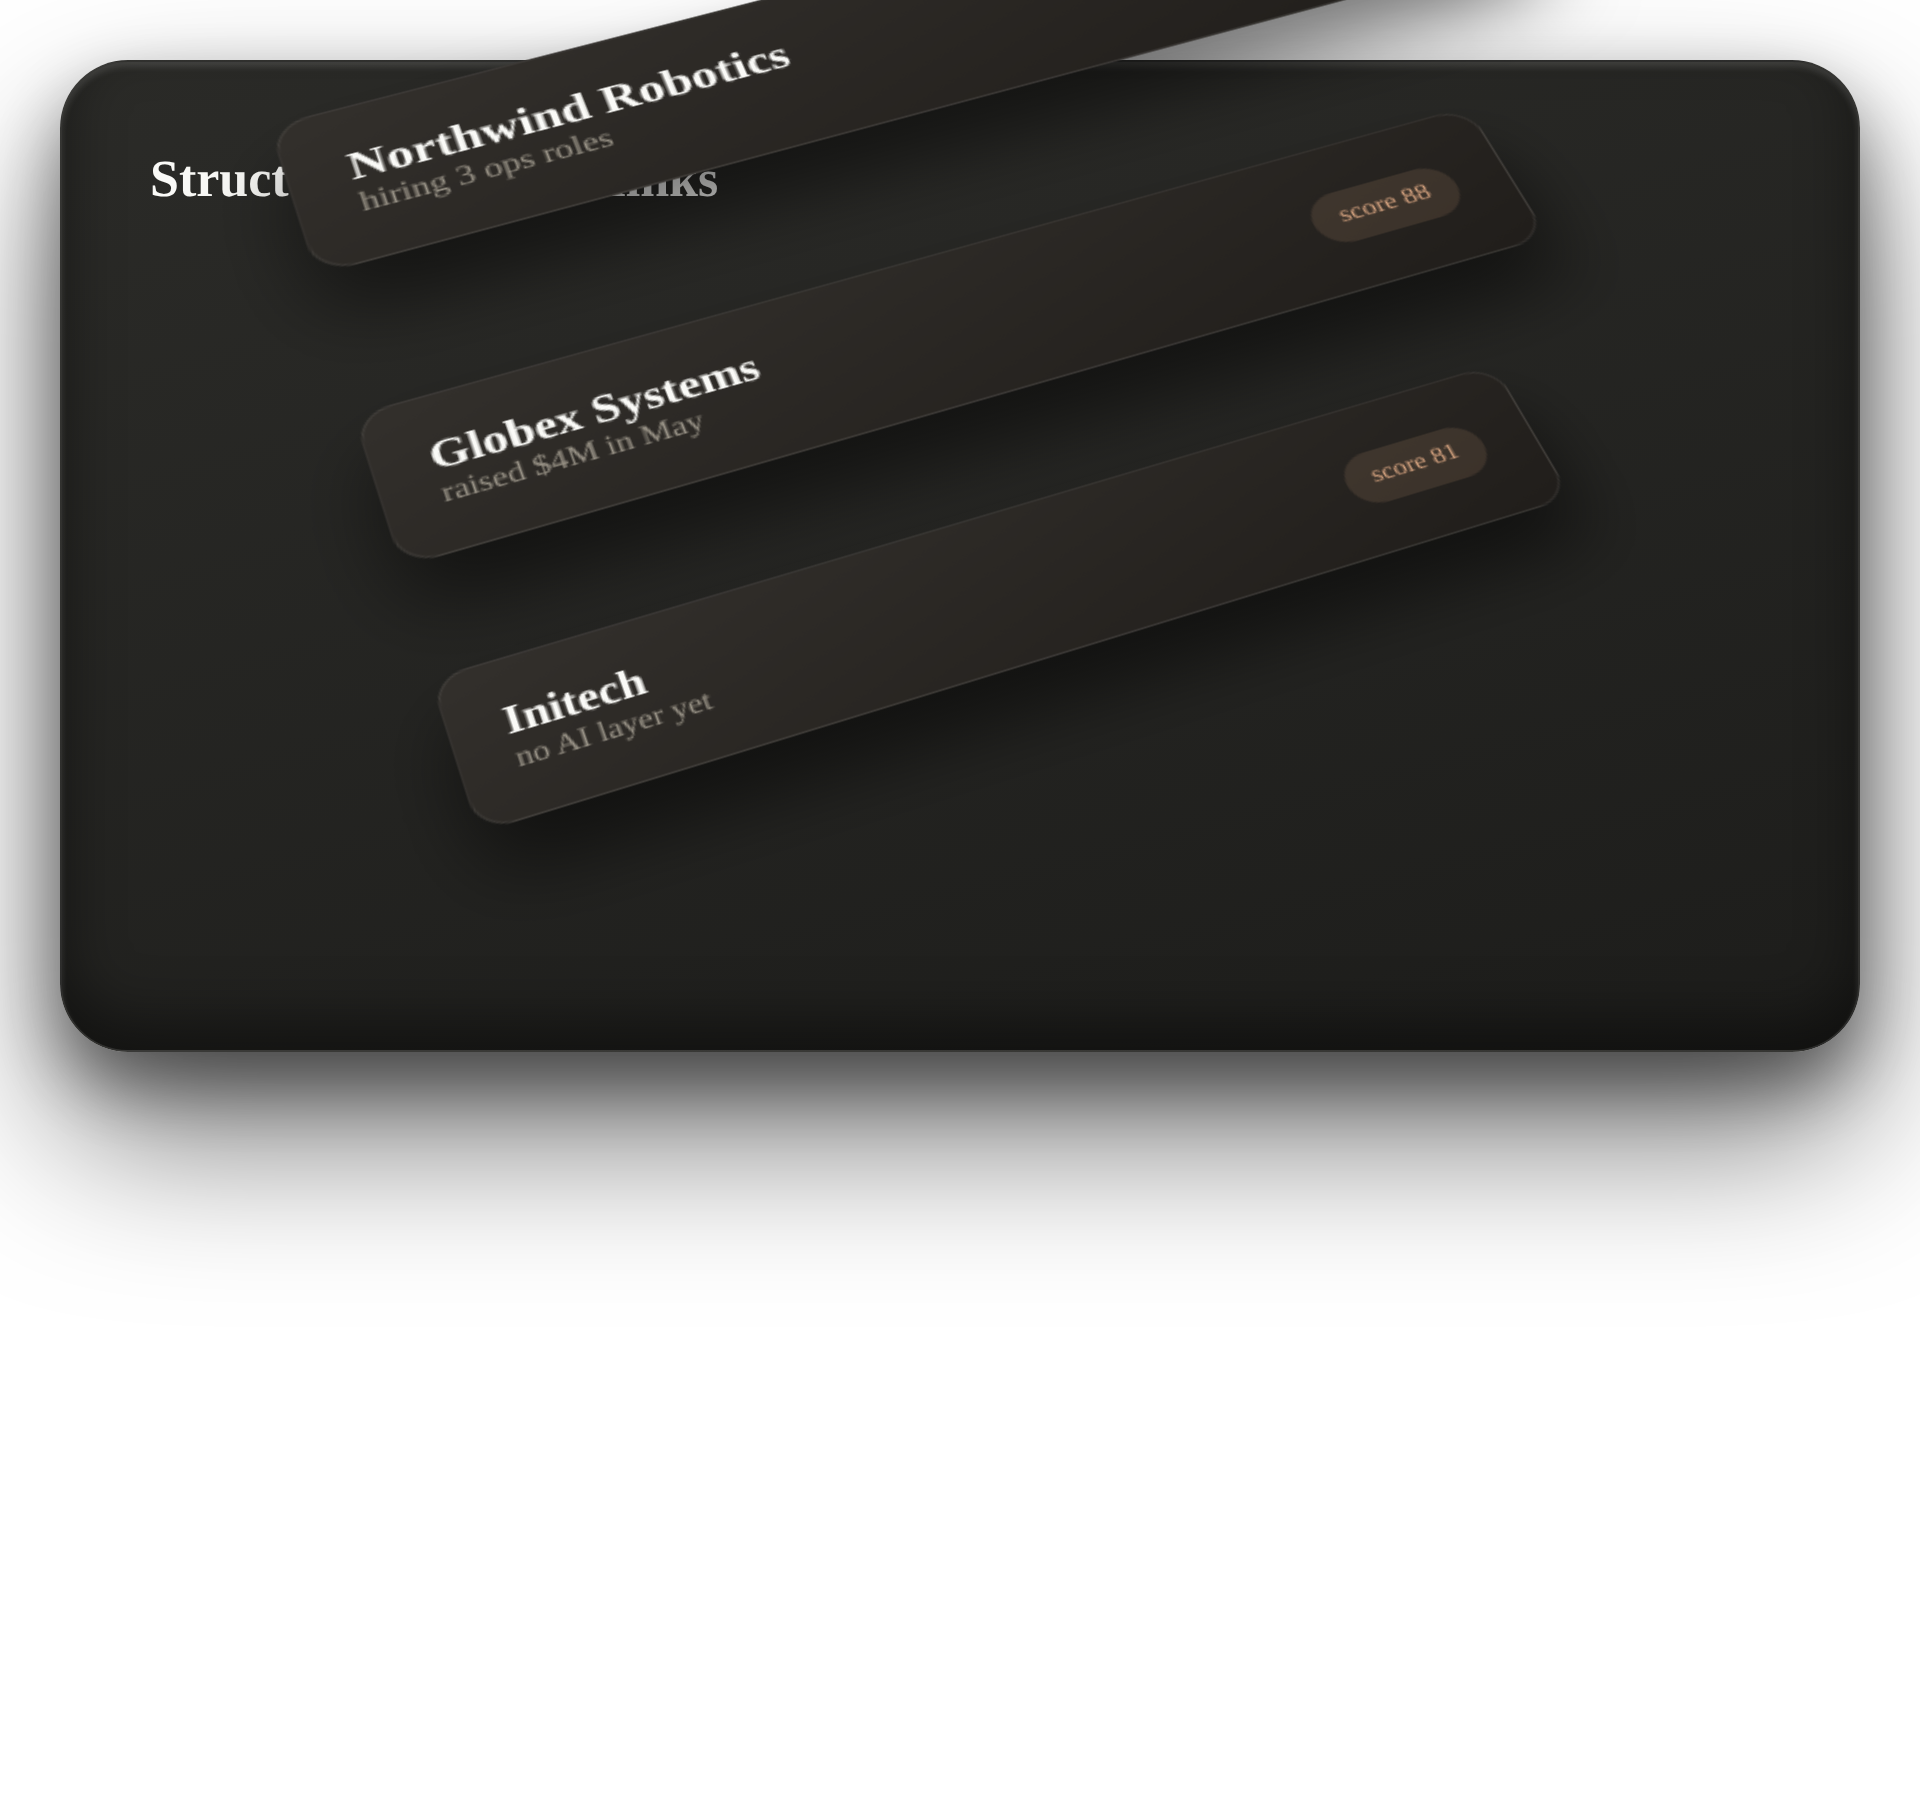
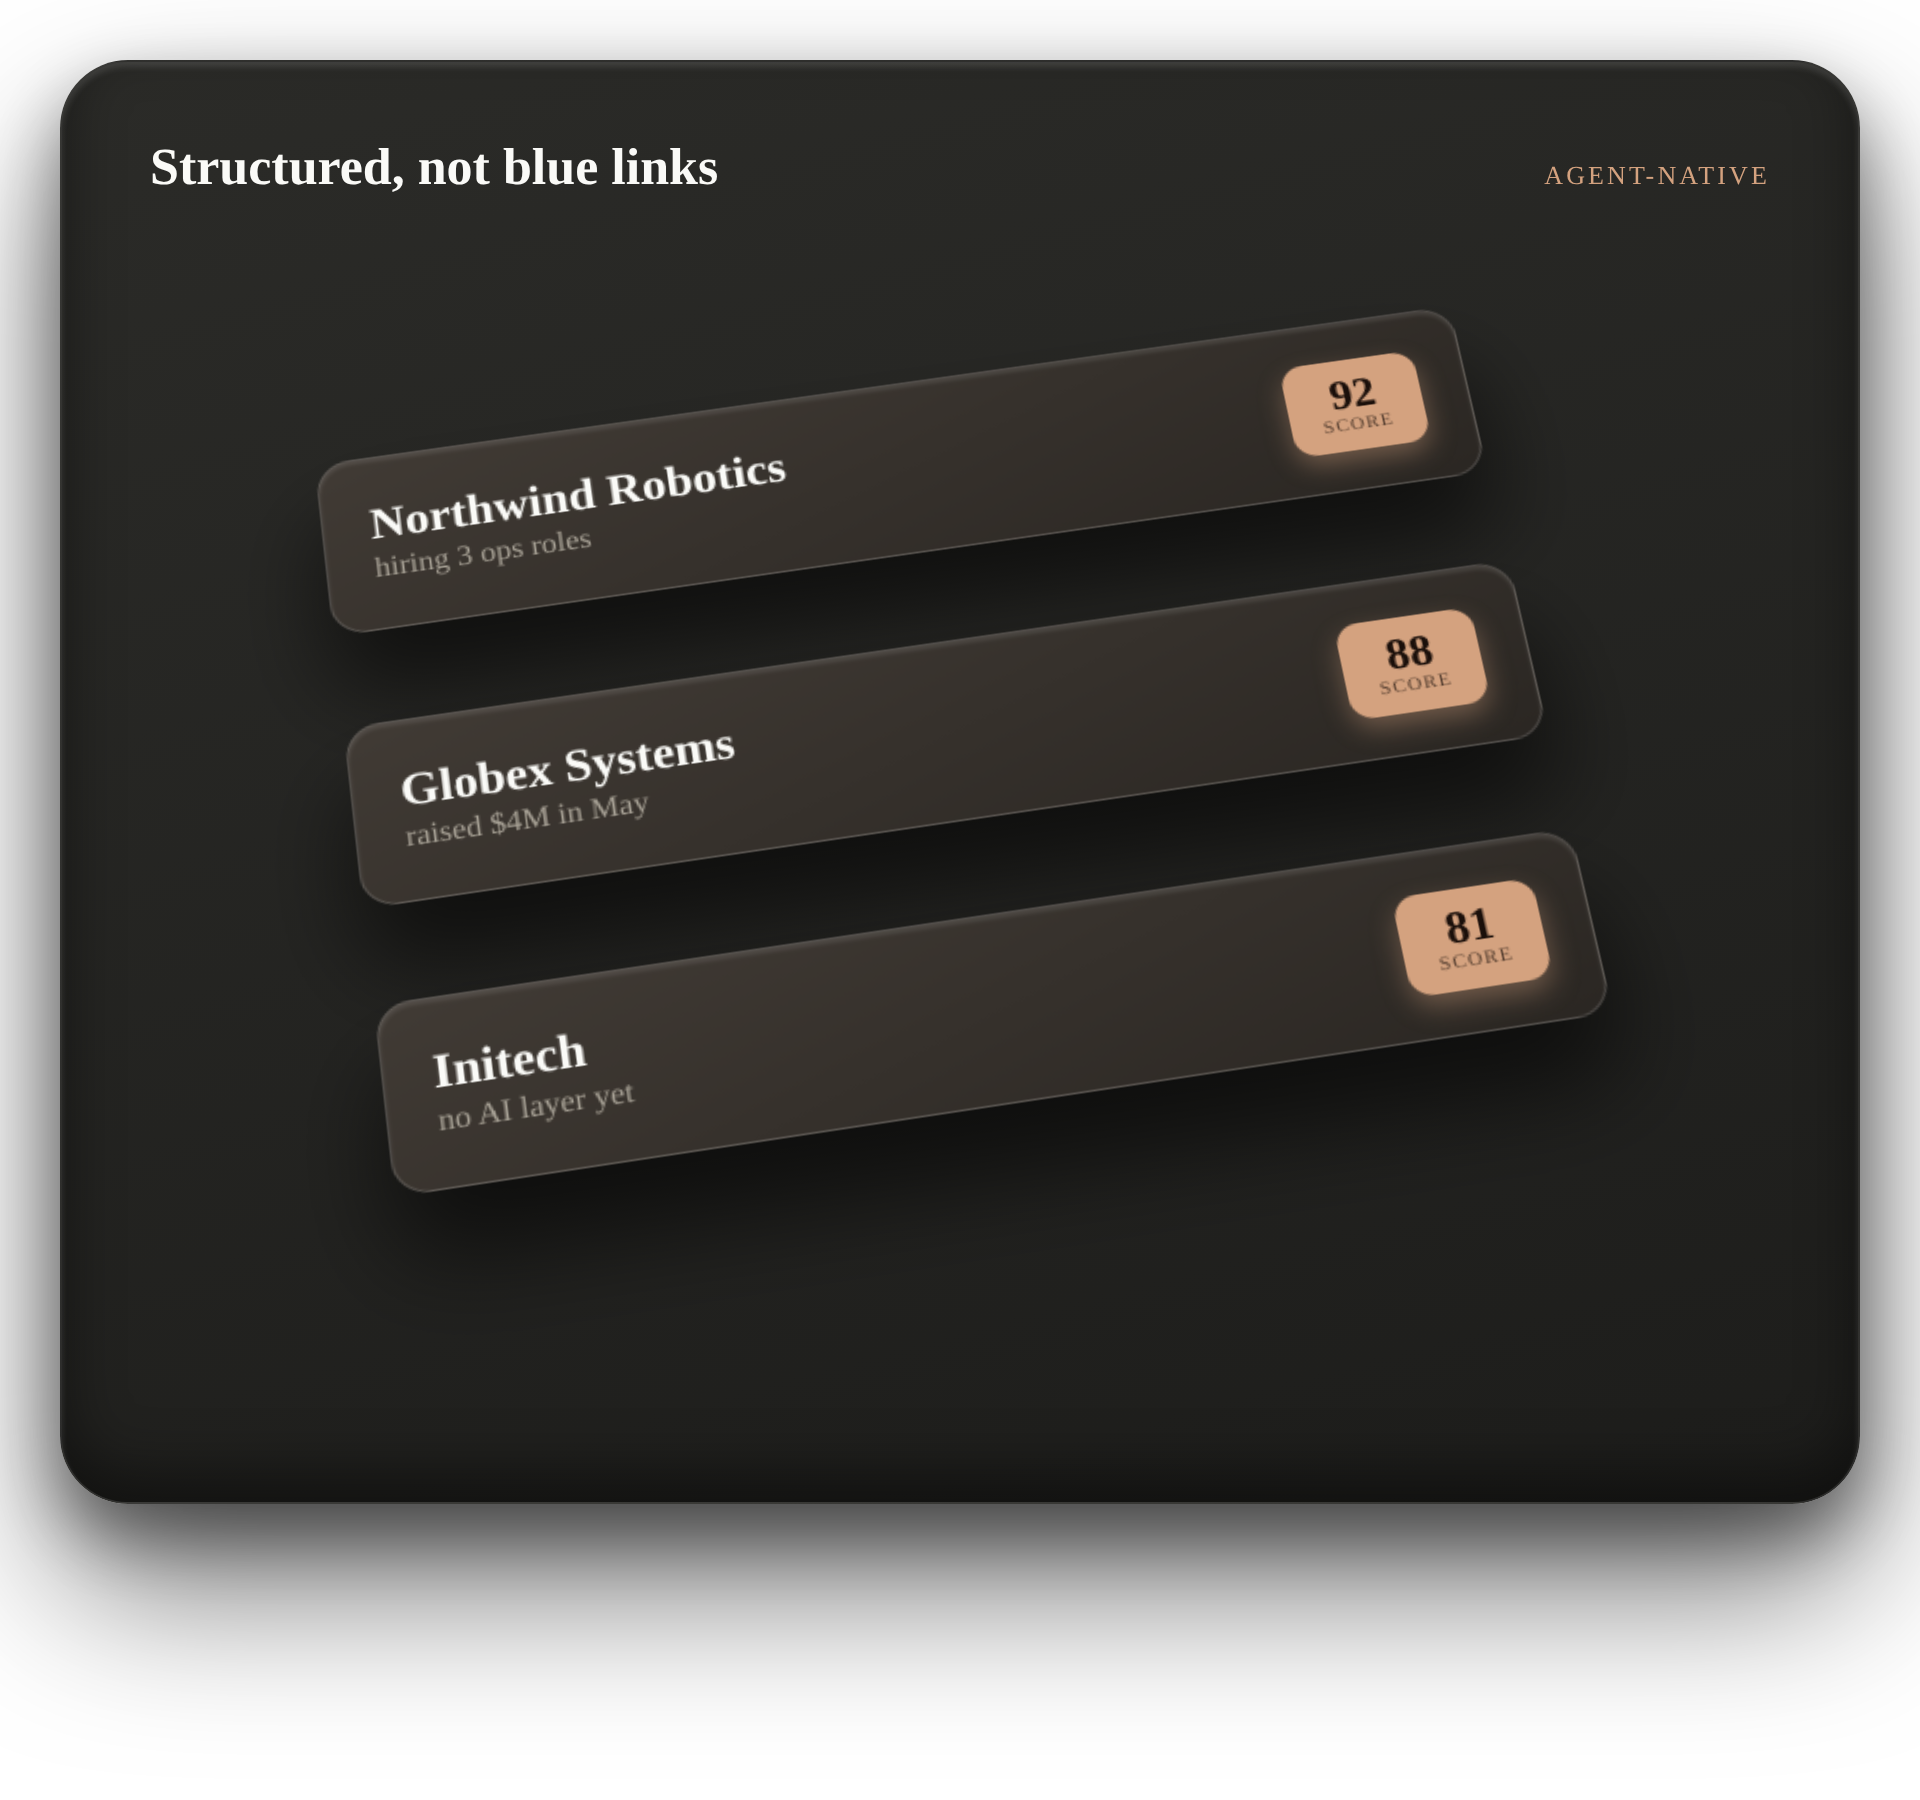
Fix slide 03 eyes (izometric): placi vizibile, scor asociat clar cu randul, tilt bland - bug de pozitionare rezolvat

diff --git a/content/_hitl-src/eyes_t3.py b/content/_hitl-src/eyes_t3.py
@@ -34,22 +34,28 @@ def jar():
     </div>'''
 
 # 2. EYES10 - isometric stack of structured result cards (agent-native search)
+# FIX (operator): titlul nu mai sta in spatele stivei; scena 3D e contuinuta, fara overflow/overlap.
 def eyes10():
     cards=""
-    rows=[("Northwind Robotics","hiring 3 ops roles","score 92"),
-          ("Globex Systems","raised $4M in May","score 88"),
-          ("Initech","no AI layer yet","score 81")]
+    rows=[("Northwind Robotics","hiring 3 ops roles","92"),
+          ("Globex Systems","raised $4M in May","88"),
+          ("Initech","no AI layer yet","81")]
     for i,(a,b,c) in enumerate(rows):
-        z=(2-i)*120
-        cards+=f'''<div style="position:absolute;left:0;top:{i*70}px;width:560px;transform:translateZ({z}px);
-          background:linear-gradient(160deg,#33302c,#211e1b);border:1px solid rgba(255,255,255,.08);border-radius:18px;padding:22px 26px;
-          box-shadow:0 26px 40px rgba(0,0,0,.5);display:flex;align-items:center;justify-content:space-between">
-          <div style="text-align:left"><div style="font-family:'DM Sans';font-weight:800;font-size:23px;color:#FAFAF7">{a}</div>
-          <div style="font-family:'DM Sans';font-size:16px;color:#9a9488">{b}</div></div>
-          <div style="font-family:'DM Mono';font-size:14px;color:rgb({ACC});background:rgba({ACC},.14);padding:8px 14px;border-radius:999px;white-space:nowrap">{c}</div></div>'''
-    return f'''<div style="width:900px;{CARD};padding:44px 44px 40px">
-      <div style="font-family:'DM Sans';font-weight:800;font-size:26px;color:#FAFAF7;margin-bottom:8px">Structured, not blue links</div>
-      <div style="perspective:1500px;height:360px;margin-top:20px"><div style="transform-style:preserve-3d;transform:rotateX(34deg) rotateZ(-20deg);width:560px;height:220px;margin:0 auto;position:relative">{cards}</div></div>
+        y=i*150
+        cards+=f'''<div style="position:absolute;left:0;top:{y}px;width:600px;
+          background:linear-gradient(160deg,#413b35,#2b2723);border:1.5px solid rgba(255,255,255,.16);border-radius:18px;padding:22px 24px;
+          box-shadow:0 34px 50px rgba(0,0,0,.6), inset 0 2px 2px rgba(255,255,255,.10);display:flex;align-items:center;gap:22px">
+          <div style="flex:1;text-align:left"><div style="font-family:'DM Sans';font-weight:800;font-size:25px;color:#FAFAF7">{a}</div>
+          <div style="font-family:'DM Sans';font-size:16px;color:#a8a296;margin-top:2px">{b}</div></div>
+          <div style="flex-shrink:0;display:flex;flex-direction:column;align-items:center;background:rgb({ACC});padding:9px 17px;border-radius:12px;box-shadow:0 6px 14px rgba({ACC},.4)">
+            <span style="font-family:'DM Sans';font-weight:900;font-size:24px;color:#1a0f0a;line-height:1">{c}</span>
+            <span style="font-family:'DM Mono';font-size:10px;letter-spacing:.1em;color:rgba(26,15,10,.7)">SCORE</span></div></div>'''
+    return f'''<div style="width:900px;{CARD};padding:38px 44px 44px">
+      <div style="display:flex;align-items:baseline;justify-content:space-between;margin-bottom:8px">
+        <span style="font-family:'DM Sans';font-weight:800;font-size:26px;color:#FAFAF7">Structured, not blue links</span>
+        <span style="font-family:'DM Mono';font-size:13px;letter-spacing:.12em;color:rgb({ACC})">AGENT-NATIVE</span></div>
+      <div style="perspective:2000px;height:600px;display:flex;align-items:center;justify-content:center">
+        <div style="transform-style:preserve-3d;transform:rotateX(22deg) rotateZ(-9deg);width:600px;height:490px;position:relative">{cards}</div></div>
     </div>'''
 
 # 3. CRAWL - bezier flow: N site nodes converge into one brief
